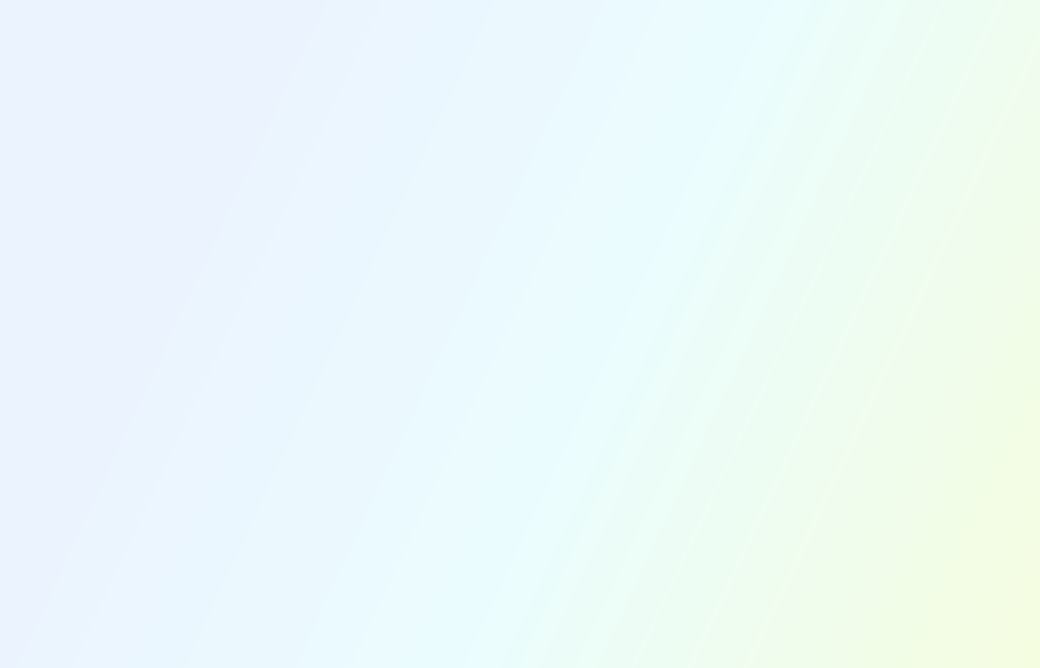
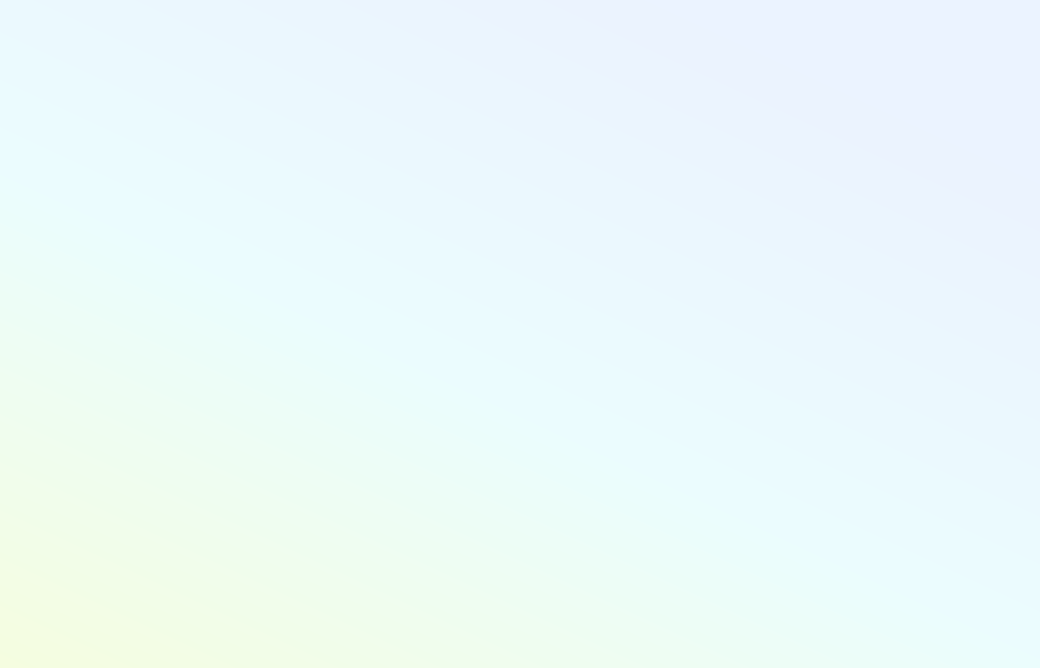
Fix email2/3 gradient: Outlook VML path + Gmail overlay
The short teaser card was stacking gradient image above flat #EBF3FF text
when Outlook ignored negative margins. Split rendering: Outlook gets a VML
roundrect with the gradient as a frame fill and text inside the textbox;
Gmail/web keep the image overlay pattern. Regenerated card_bg PNGs from the
Figma gradient stops for a clearer blend.

Changed region(s): [[0.8923, 0.6287, 1.0, 1.0], [0.0, 0.8383, 0.2154, 1.0]]

diff --git a/src/NexaEmailBlast/Templates/_card_short_start.html b/src/NexaEmailBlast/Templates/_card_short_start.html
@@ -1,19 +1,25 @@
-<!-- Short teaser card (email2, email3): text centred ON the gradient image -->
+<!-- Short teaser card (email2, email3): Outlook VML + Gmail/web image overlay -->
 <table role="presentation" width="100%" cellpadding="0" cellspacing="0" bgcolor="#EBF3FF"
        style="border-collapse:separate;border-spacing:0;border-radius:16px;overflow:hidden;background-color:#EBF3FF;">
   <tr>
-    <td align="center" style="padding:0;font-size:0;line-height:0;mso-line-height-rule:exactly;">
-      <!--[if gte mso 9]>
-      <v:rect xmlns:v="urn:schemas-microsoft-com:vml" fill="true" stroke="false" style="width:520px;height:190px;">
+    <td align="center" style="padding:0;border-radius:16px;">
+      <!--[if mso]>
+      <v:roundrect xmlns:v="urn:schemas-microsoft-com:vml" xmlns:w="urn:schemas-microsoft-com:office:word"
+                   style="height:190px;width:520px;v-text-anchor:middle;" arcsize="12%" stroke="f" fillcolor="#EBF3FF">
       <v:fill type="frame" src="{{CARD_BG_SHORT}}" color="#EBF3FF" />
-      <v:textbox inset="0,0,0,0" style="mso-fit-shape-to-text:true;">
+      <w:anchorlock/>
+      <v:textbox inset="0,0,0,0" style="mso-fit-shape-to-text:true;mso-text-anchor:middle;">
+      <table role="presentation" width="520" cellpadding="0" cellspacing="0" border="0">
+      <tr>
+      <td align="center" valign="middle" style="padding:48px 28px;font-family:Arial,Helvetica,sans-serif;">
       <![endif]-->
+      <!--[if !mso]><!-->
       <div style="max-width:520px;margin:0 auto;border-radius:16px;overflow:hidden;background-color:#EBF3FF;">
         <img src="{{IMG:cardbg_short}}" width="520" height="190" alt=""
-             style="display:block;width:100%;max-width:520px;height:190px;border:0;border-radius:16px;object-fit:cover;" />
-        <div style="margin-top:-190px;mso-margin-top-alt:0;height:190px;width:100%;max-width:520px;">
-          <table role="presentation" width="100%" height="190" cellpadding="0" cellspacing="0"
-                 style="height:190px;width:100%;">
+             style="display:block;width:100%;max-width:520px;height:190px;border:0;border-radius:16px;" />
+        <div style="max-width:520px;margin-top:-190px;">
+          <table role="presentation" width="100%" cellpadding="0" cellspacing="0" border="0" style="height:190px;">
             <tr>
-              <td align="center" valign="middle" height="190"
-                  style="padding:0 28px;height:190px;background-color:transparent;mso-padding-alt:0 28px;">
+              <td align="center" valign="middle" height="190" background="{{CARD_BG_SHORT}}"
+                  style="padding:48px 28px;height:190px;font-family:Arial,Helvetica,sans-serif;background-image:url('{{CARD_BG_SHORT}}');background-size:cover;background-position:center;background-repeat:no-repeat;">
+      <!--<![endif]-->

diff --git a/src/NexaEmailBlast/Templates/_card_short_end.html b/src/NexaEmailBlast/Templates/_card_short_end.html
@@ -1,9 +1,17 @@
+      <!--[if mso]>
+      </td>
+      </tr>
+      </table>
+      </v:textbox>
+      </v:roundrect>
+      <![endif]-->
+      <!--[if !mso]><!-->
               </td>
             </tr>
           </table>
         </div>
       </div>
-      <!--[if gte mso 9]></v:textbox></v:rect><![endif]-->
+      <!--<![endif]-->
     </td>
   </tr>
 </table>